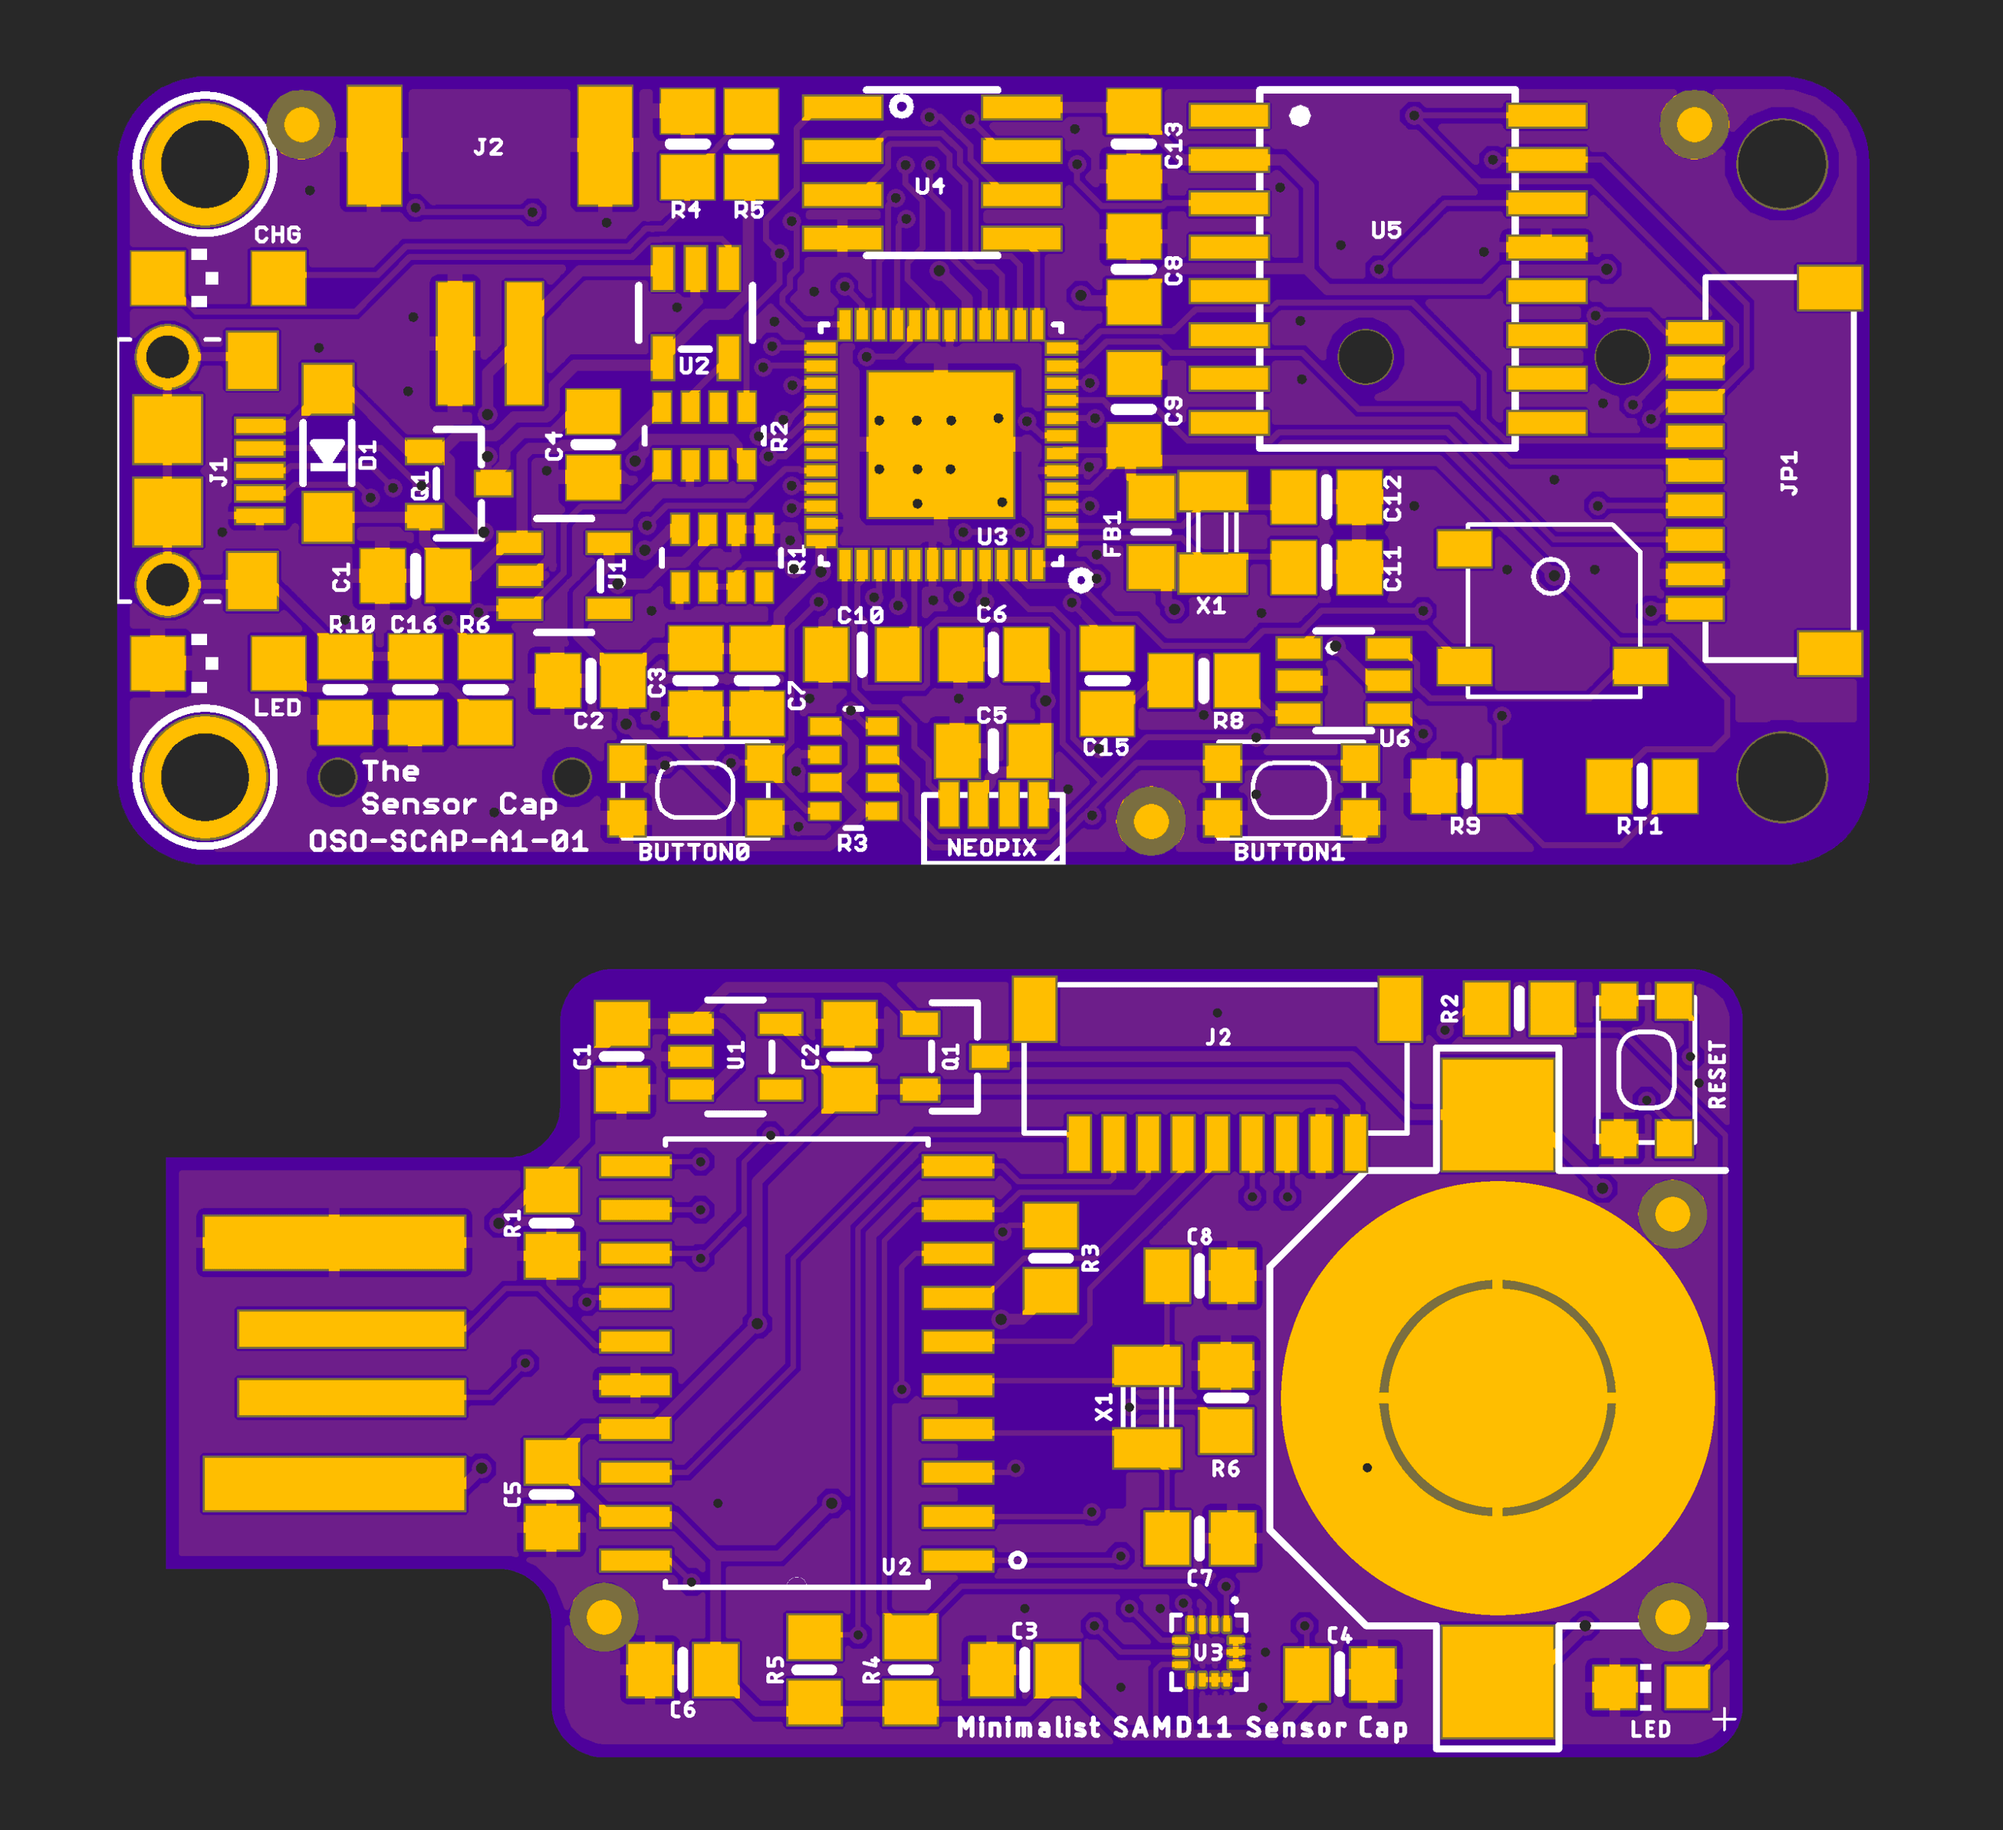
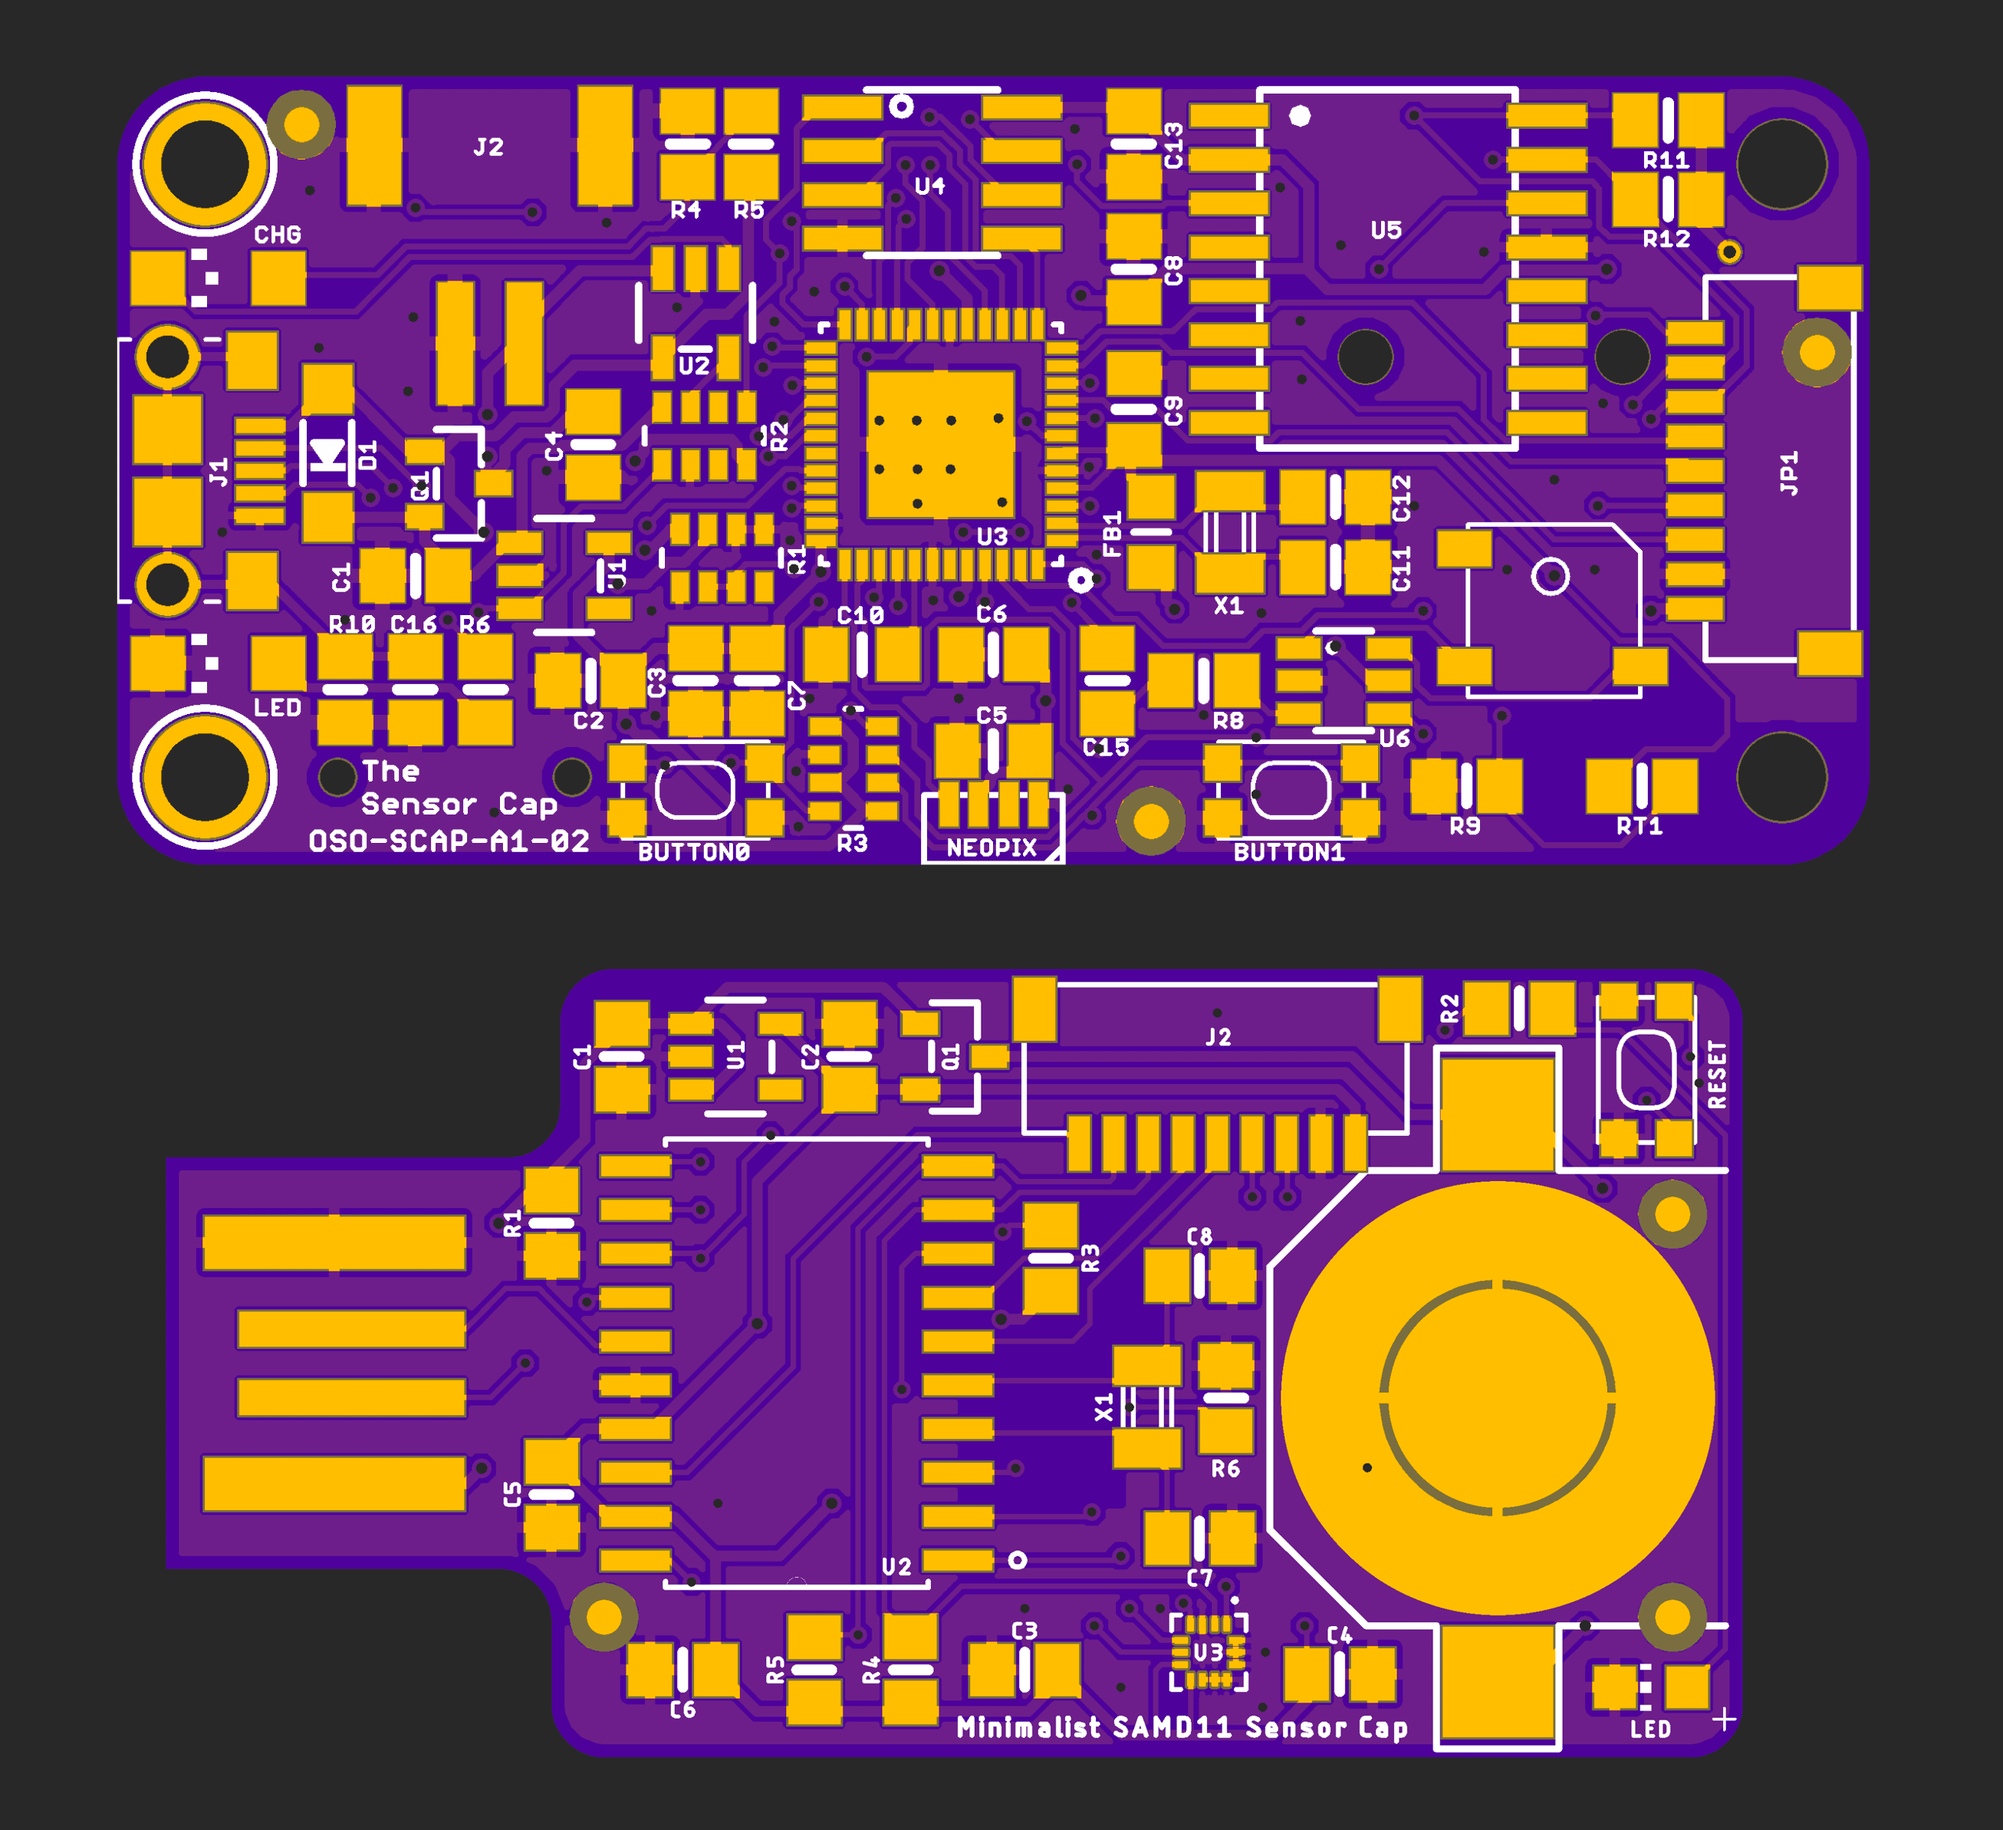
A1 rev 02: add i2c pull-ups

Changed region(s): [[0.7132, 0.031, 0.9303, 0.2171], [0.5892, 0.2481, 0.7132, 0.3412]]

diff --git a/PCB/Main Boards/README.md b/PCB/Main Boards/README.md
@@ -1,6 +1,6 @@
 # EAGLE PCB Files
 
-There are two variants of this project. You probably came for variant A1, the SAMD51-based board. 
+There are two variants of this project. You probably came for variant A1, the SAMD51-based board. A1-02 is marked "WIP" because I'm probably going to tweak the LED's a bit; tried to get clever with a bidirectional 1206 LED, and it works, but it's friendlier with two basic green and amber 0805's. Still totally buildable as-is.
 
 Variant B1 is an experimental low power, low cost version of the cap; it's totally functional, but still I don't recommend building it just yet.
 
